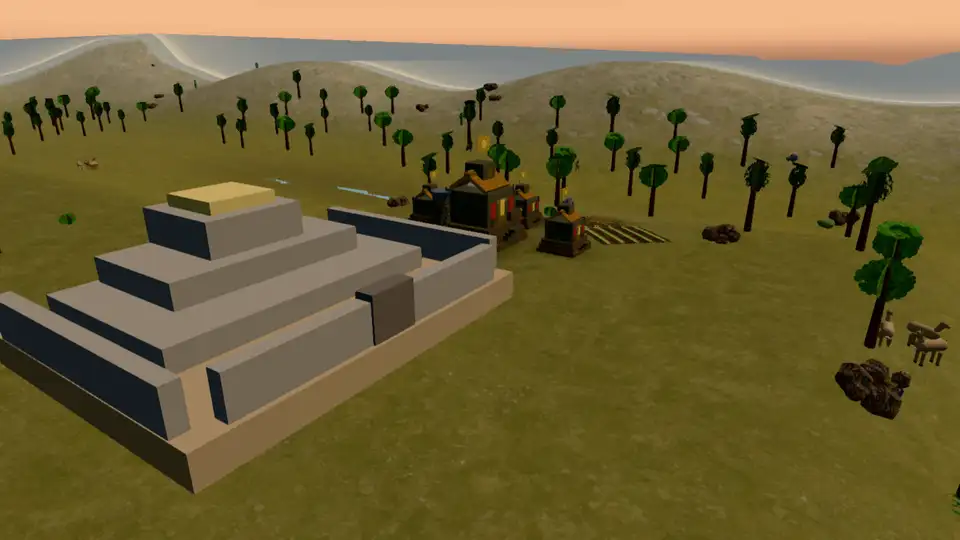
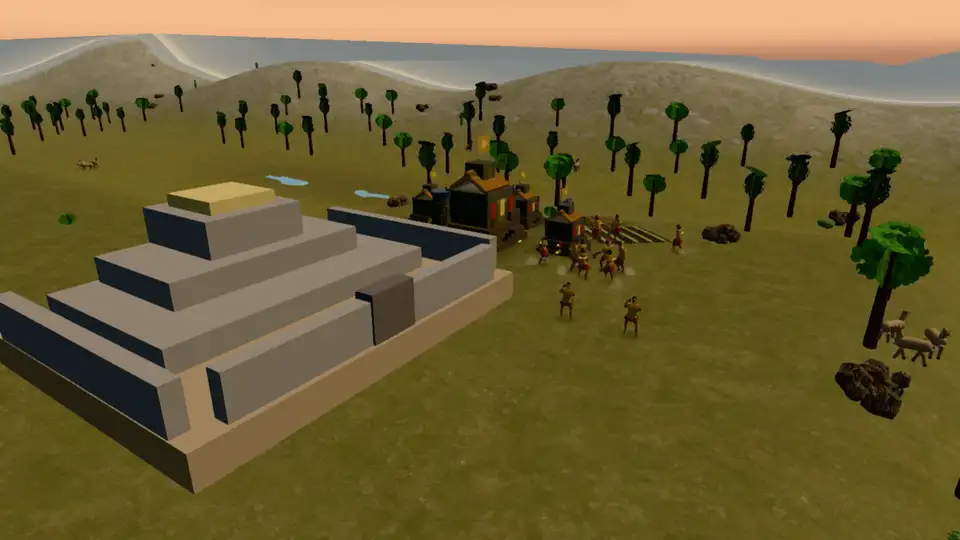
fix(m6b): captura en el centro de Huáscar y revisión de #489
- El Acto III ya no es un segundo hold en la misma marca: la captura se hace en el centro de Huáscar, separada de la pampa, y exige mover la línea.\n- Tutorial con paso de captura y dossier actualizado; ola de refuerzo con offsets 4/3.\n- Nuevo guardado/carga a mitad de la captura; la vara documenta esa cobertura.\n- Captura del acto III con unidades y titular de victoria sin «ruinas del enemigo».\n- Comentario de musketeer/hondero en el bench de m6b.

diff --git a/tests/e2e/save-campaign.spec.ts b/tests/e2e/save-campaign.spec.ts
@@ -777,7 +777,7 @@ test('saves and loads m6 mid-surrender', async ({ page }) => {
     g.update(1 / 60, 0.02);
     document.querySelector<HTMLElement>('.ed-mission-card')?.click();
     const anchor = g.siteAnchor as { x: number; z: number };
-    const army = [...g.units.values()].filter((u: any) => u.owner === 0 && !u.dead).slice(0, 4) as any[];
+    const army = [...g.units.values()].filter((u: any) => u.owner === 0 && !u.dead).slice(0, 8) as any[];
     for (const u of army) u.pos.set(anchor.x, g.terrain.getHeight(anchor.x, anchor.z), anchor.z);
     const dt = 1 / 60;
     let t = 0.1;
@@ -812,6 +812,72 @@ test('saves and loads m6 mid-surrender', async ({ page }) => {
     return {
       surrender: g.mission.getObjectiveProgress('obj_rendicion'),
       canal: g.mission.getObjectiveState('obj_canal'),
+      tutorialStep: g.tutorial?.toSave().stepId ?? null,
+    };
+  });
+  expect(after).toEqual(before);
+});
+
+test('saves and loads m6b mid-capture', async ({ page }) => {
+  await page.goto('/?mission=m6b_guerra_civil&seed=777&fog=0&low=1&intro=0');
+  await startMission(page);
+  await page.waitForFunction(
+    () => {
+      const g = (window as unknown as { game?: any }).game;
+      return !!g?.mission && g.units.size > 0;
+    },
+    null,
+    { timeout: 20_000 },
+  );
+  const before = await page.evaluate(() => {
+    const g = (window as unknown as { game: any }).game;
+    g.loop.stop();
+    if (g.getPaused()) g.togglePause();
+    const m = g.mission;
+    const step = () => {
+      document.querySelector<HTMLElement>('.ed-mission-card')?.click();
+      g.update(1 / 60, 0);
+    };
+    m.objState.set('obj_avanzar', 'completed');
+    step();
+    m.objState.set('obj_quipaipan', 'completed');
+    step();
+    const anchor = m.getObjectiveAnchor('obj_captura') as { x: number; z: number };
+    const army = [...g.units.values()].filter((u: any) => u.owner === 0 && !u.dead).slice(0, 8) as any[];
+    for (const u of army) u.pos.set(anchor.x, g.terrain.getHeight(anchor.x, anchor.z), anchor.z);
+    const dt = 1 / 60;
+    let t = 0.1;
+    for (let i = 0; i < Math.ceil(6 / dt) && !m.ended; i++) {
+      document.querySelector<HTMLElement>('.ed-mission-card')?.click();
+      for (const u of army) u.pos.set(anchor.x, g.terrain.getHeight(anchor.x, anchor.z), anchor.z);
+      g.update(dt, t);
+      t += dt;
+    }
+    g.saveMatch();
+    return {
+      capture: g.mission.getObjectiveProgress('obj_captura'),
+      hold: m.getObjectiveState('obj_quipaipan'),
+      tutorialStep: g.tutorial?.toSave().stepId ?? null,
+    };
+  });
+  expect(before.capture?.current ?? 0).toBeGreaterThan(2);
+  expect(before.hold).toBe('completed');
+
+  await page.goto('/?load=1');
+  await page.waitForFunction(
+    () => {
+      const g = (window as unknown as { game?: any }).game;
+      return !!g?.mission && g.units.size > 0;
+    },
+    null,
+    { timeout: 20_000 },
+  );
+  const after = await page.evaluate(() => {
+    const g = (window as unknown as { game: any }).game;
+    g.loop.stop();
+    return {
+      capture: g.mission.getObjectiveProgress('obj_captura'),
+      hold: g.mission.getObjectiveState('obj_quipaipan'),
       tutorialStep: g.tutorial?.toSave().stepId ?? null,
     };
   });

diff --git a/src/campaign/defs/missions/m6b_guerra_civil.ts b/src/campaign/defs/missions/m6b_guerra_civil.ts
@@ -107,13 +107,14 @@ export const m6bGuerraCivil: MissionDef = {
       unitKind: UnitKind.SOLDIER,
       hidden: true,
       requires: 'obj_avanzar',
-      title: 'Sostén Quipaipan y captura a Huáscar',
+      title: 'Sostén Quipaipan',
     },
     {
       id: 'obj_captura',
       kind: 'hold',
-      pos: { ref: 'site', dx: 0, dz: 0 },
-      radius: cuscoIncaLength(18),
+      // Huáscar's centre, not the pampa marker: the capture is a separate move from the battle line.
+      pos: { ref: 'enemy', dx: 0, dz: 0 },
+      radius: cuscoIncaLength(8),
       time: 20,
       minUnits: 4,
       hidden: true,
@@ -215,7 +216,7 @@ export const m6bGuerraCivil: MissionDef = {
             { kind: UnitKind.SOLDIER, count: 5 },
             { kind: UnitKind.MUSKETEER, count: 2 },
           ],
-          pos: { ref: 'player', dx: 20, dz: 16 },
+          pos: { ref: 'player', dx: cuscoIncaLength(20), dz: cuscoIncaLength(16) },
           radius: cuscoIncaLength(7),
         },
         { type: 'dialogue', text: '¡Refuerzos de Huáscar atacan tu retaguardia!' },

diff --git a/tests/e2e/campaign-playtest.spec.ts b/tests/e2e/campaign-playtest.spec.ts
@@ -369,6 +369,16 @@ test('plays m6b by holding Quipaipan and capturing Huáscar with real orders', a
       t += dt;
     }
     const progress = m.getObjectiveProgress('obj_quipaipan') as { current: number; target: number } | null;
+    // Act III: move from the pampa to Huáscar's centre and hold the capture.
+    if (!m.ended && m.getObjectiveState('obj_captura') === 'activo') {
+      const capture = m.getObjectiveAnchor('obj_captura') as { x: number; z: number };
+      move(army(), capture.x, capture.z);
+      for (let i = 0; i < Math.ceil(45 / dt) && !m.ended; i++) {
+        if (g.hud.isMissionCardOpen()) document.querySelector<HTMLElement>('.ed-mission-card')?.click();
+        g.update(dt, t);
+        t += dt;
+      }
+    }
     return {
       reach,
       quipaipan: m.getObjectiveState('obj_quipaipan') as string,

diff --git a/src/campaign/defs/tutorials.ts b/src/campaign/defs/tutorials.ts
@@ -188,8 +188,13 @@ const TUTORIALS: Record<string, TutorialDef> = {
       },
       {
         id: 'huascar',
-        text: 'Sostén la pampa de Quipaipan durante 90 s con al menos seis guerreros y no dejes caer a Atahualpa; al vencer se narra la captura de Huáscar.',
+        text: 'Sostén la pampa de Quipaipan durante 90 s con al menos seis guerreros y no dejes caer a Atahualpa.',
         check: { type: 'objectiveCompleted', objectiveId: 'obj_quipaipan' },
+      },
+      {
+        id: 'captura',
+        text: 'Avanza al centro de Huáscar y sostén la captura veinte segundos: el centro queda intacto, el objetivo es Huáscar.',
+        check: { type: 'objectiveCompleted', objectiveId: 'obj_captura' },
       },
     ],
   },

diff --git a/tests/campaign.test.ts b/tests/campaign.test.ts
@@ -520,6 +520,10 @@ describe('campaign educational content', () => {
     expect(m6bActTitles[2]).toContain('Huáscar');
     const capture = m6b.objectives.find((o) => o.id === 'obj_captura')!;
     expect(capture.kind).toBe('hold');
+    expect(capture.pos).toEqual({ ref: 'enemy', dx: 0, dz: 0 });
+    expect(capture.radius).toBeCloseTo(10.667, 3);
+    expect(capture.time).toBe(20);
+    expect(capture.minUnits).toBe(4);
     expect(capture.requires).toBe('obj_quipaipan');
     expect(capture.hidden).toBe(true);
   });

diff --git a/src/i18n/es.ts b/src/i18n/es.ts
@@ -98,7 +98,7 @@ export const es = {
 
   'hud.victory.title': 'VICTORIA',
   'hud.victory.defeat': 'DERROTA',
-  'hud.victory.win': 'Tu imperio se alza sobre las ruinas del enemigo.',
+  'hud.victory.win': 'La partida termina con la victoria.',
   'hud.victory.lose': 'Tu civilización ha caído ante el avance enemigo.',
   'hud.victory.epilogue': 'Epílogo.',
   'hud.victory.epilogueHint': 'Puedes ampliar el contexto y las fuentes en el Códice desde el menú.',

diff --git a/docs/design/campaign-quality-bar.md b/docs/design/campaign-quality-bar.md
@@ -214,26 +214,26 @@ Reviewed 2026-11-14 as a model mission. The human art gate is still open.
 
 Reviewed 2026-11-14 as a model mission. The human art gate is still open.
 
-| Gate        | Status               | Evidence                                                                                                                                                                                     |
-| ----------- | -------------------- | -------------------------------------------------------------------------------------------------------------------------------------------------------------------------------------------- |
-| History     | Met                  | `docs/historia/campanas/chimu_inca.md` with its certainty table; the canal is a labelled abstraction.                                                                                        |
-| Identity    | Met                  | Water as power: Paramonga, the Chan Chan gate and the surrender of the desert capital.                                                                                                      |
-| Terrain     | Met                  | 256 m authored coastal heightfield (`chimuHeightmap.ts`) with painted ground: beach, valley, terraces and foothills.                                                                         |
-| Site        | Met (exception)      | No construction phases: Chan Chan is a living capital, not a monument the player builds; recorded in `chimu-model-mission.md`.                                                              |
-| Play        | Met                  | `campaign.spec.ts` covers gate and surrender; `campaign-playtest.spec.ts` advances, closes and holds with real orders; completable and save paths are covered.                               |
-| Contract    | Met                  | Three acts (Paramonga, canal, capitulation) with hidden goals revealed by triggers and chapter cards; optional centre/timer.                                                                |
-| Onboarding  | Met                  | Non-blocking tutorial, briefing, Codex and minimap pips.                                                                                                                                     |
-| Closure     | Met                  | Dusk epilogue capture narrates Minchancaman's transfer and Querrotumi's revolt; optional objectives summarised.                                                                              |
-| UX          | Met                  | `tests/e2e/hud-layout.spec.ts` checks the panels geometrically at 1280×720 (Caral also at 1600×900 and 1920×1080).                                                                           |
-| Visuals     | Met locally          | Authored Chimú GLB, painted coast and in-engine intro/epilogue captures in `public/media/chimu/`.                                                                                            |
-| Persistence | Met                  | Gate, hold timer and tutorial round-trip in the shared save path; v9 m6 saves are rejected (`SAVE_VERSION` 10).                                                                              |
-| Tests       | Met                  | Data, site/proxy collision, tutorial, mission, HUD, real-command playtest and save/load coverage.                                                                                            |
-| Docs        | Met                  | This document, dossier, `chimu-model-mission.md`, experience table, site note, art docs and README aligned.                                                                                  |
-| Structure   | Met                  | Three acts, hidden objectives revealed per act, chapter cards with images and optional goals.                                                                                               |
-| Opening     | Met                  | Three-beat narrated intro, chapter cards and epilogue from `scripts/capture_chimu_intro.mjs`; `MISSION_ART` uses the coast capture.                                                          |
-| Art         | Pending human review | The reused Chimú GLB and its Blender records keep `reviewed: false` (#343); in-engine captures are recorded in PROVENANCE.                                                                   |
-| Performance | Met                  | `bench_scene.mjs`: opening ~499k tris / 273 calls, surrender ~765k / 516; within the recorded first-pass caps (the late view is over the 600k art-direction target).                          |
-| Scale       | Met                  | 256 m map, 128² painted ground and `unitSpeedScale: 0.75` → worker crossing ≈2:22; `tests/campaign-scale.test.ts`.                                                                           |
+| Gate        | Status               | Evidence                                                                                                                                                             |
+| ----------- | -------------------- | -------------------------------------------------------------------------------------------------------------------------------------------------------------------- |
+| History     | Met                  | `docs/historia/campanas/chimu_inca.md` with its certainty table; the canal is a labelled abstraction.                                                                |
+| Identity    | Met                  | Water as power: Paramonga, the Chan Chan gate and the surrender of the desert capital.                                                                               |
+| Terrain     | Met                  | 256 m authored coastal heightfield (`chimuHeightmap.ts`) with painted ground: beach, valley, terraces and foothills.                                                 |
+| Site        | Met (exception)      | No construction phases: Chan Chan is a living capital, not a monument the player builds; recorded in `chimu-model-mission.md`.                                       |
+| Play        | Met                  | `campaign.spec.ts` covers gate and surrender; `campaign-playtest.spec.ts` advances, closes and holds with real orders; completable and save paths are covered.       |
+| Contract    | Met                  | Three acts (Paramonga, canal, capitulation) with hidden goals revealed by triggers and chapter cards; optional centre/timer.                                         |
+| Onboarding  | Met                  | Non-blocking tutorial, briefing, Codex and minimap pips.                                                                                                             |
+| Closure     | Met                  | Dusk epilogue capture narrates Minchancaman's transfer and Querrotumi's revolt; optional objectives summarised.                                                      |
+| UX          | Met                  | `tests/e2e/hud-layout.spec.ts` checks the panels geometrically at 1280×720 (Caral also at 1600×900 and 1920×1080).                                                   |
+| Visuals     | Met locally          | Authored Chimú GLB, painted coast and in-engine intro/epilogue captures in `public/media/chimu/`.                                                                    |
+| Persistence | Met                  | Gate, hold timer and tutorial round-trip in the shared save path; v9 m6 saves are rejected (`SAVE_VERSION` 10).                                                      |
+| Tests       | Met                  | Data, site/proxy collision, tutorial, mission, HUD, real-command playtest and save/load coverage.                                                                    |
+| Docs        | Met                  | This document, dossier, `chimu-model-mission.md`, experience table, site note, art docs and README aligned.                                                          |
+| Structure   | Met                  | Three acts, hidden objectives revealed per act, chapter cards with images and optional goals.                                                                        |
+| Opening     | Met                  | Three-beat narrated intro, chapter cards and epilogue from `scripts/capture_chimu_intro.mjs`; `MISSION_ART` uses the coast capture.                                  |
+| Art         | Pending human review | The reused Chimú GLB and its Blender records keep `reviewed: false` (#343); in-engine captures are recorded in PROVENANCE.                                           |
+| Performance | Met                  | `bench_scene.mjs`: opening ~499k tris / 273 calls, surrender ~765k / 516; within the recorded first-pass caps (the late view is over the 600k art-direction target). |
+| Scale       | Met                  | 256 m map, 128² painted ground and `unitSpeedScale: 0.75` → worker crossing ≈2:22; `tests/campaign-scale.test.ts`.                                                   |
 
 ## Applying it to m2–m9
 
@@ -412,24 +412,23 @@ The table separates what is implemented from the art and performance passes that
 
 Reviewed 2026-11-14 as a model mission. The human art gate is still open.
 
-| Gate        | Status               | Evidence                                                                                                                                                                                     |
-| ----------- | -------------------- | -------------------------------------------------------------------------------------------------------------------------------------------------------------------------------------------- |
-| History     | Met                  | `docs/historia/campanas/guerra_civil_inca.md` with its certainty table; no invented battle or ruler.                                                                                         |
-| Identity    | Met                  | The dynastic war, the Quipaipan hold and Huáscar's capture without razing Cusco.                                                                                                             |
-| Terrain     | Met                  | 256 m authored highland heightfield (`cuscoHeightmap.ts`) with painted ground: pampa, terraces, quebrada and ridges.                                                                         |
-| Site        | Met (exception)      | No construction phases: Cusco is a living capital and Quipaipan a battlefield; recorded in `guerra-civil-model-mission.md`.                                                                 |
-| Play        | Met                  | `campaign-playtest.spec.ts` advances, holds and captures with real orders and keeps the centre standing; completable and save paths are covered.                                            |
-| Contract    | Met                  | Three acts (march, Quipaipan, capture) with hidden goals revealed by triggers and chapter cards.                                                                                            |
-| Onboarding  | Met                  | Non-blocking tutorial, briefing, Codex and minimap pips.                                                                                                                                     |
-| Closure     | Met                  | Dusk epilogue capture narrates Cajamarca and the weakened empire.                                                                                                                            |
-| UX          | Met                  | `tests/e2e/hud-layout.spec.ts` checks the panels geometrically at 1280×720 (Caral also at 1600×900 and 1920×1080).                                                                           |
-| Visuals     | Met locally          | Authored Cusco GLB, painted pampa and in-engine intro/epilogue captures in `public/media/cusco-inca/`.                                                                                       |
-| Persistence | Met                  | Hold, capture and tutorial round-trip in the save path; v10 m6b saves are rejected (`SAVE_VERSION` 11).                                                                                     |
-| Tests       | Met                  | Data, site/proxy collision, tutorial, mission, HUD, real-command playtest and save/load coverage.                                                                                            |
-| Docs        | Met                  | This document, dossier, `guerra-civil-model-mission.md`, experience table, site note, art docs and README aligned.                                                                           |
-| Structure   | Met                  | Three acts, hidden objectives revealed per act and chapter cards with images.                                                                                                               |
-| Opening     | Met                  | Three-beat narrated intro, chapter cards and epilogue from `scripts/capture_cusco_inca_intro.mjs`; `MISSION_ART` uses the Quipaipan capture.                                                 |
-| Art         | Pending human review | The reused Cusco GLB and its Blender records keep `reviewed: false` (#343); in-engine captures are recorded in PROVENANCE.                                                                   |
-| Performance | Met                  | `bench_scene.mjs`: opening ~703k tris / 436 calls, battle ~967k / 673; over the 600k art-direction target (as m7/m9), within the recorded first-pass caps.                                   |
-| Scale       | Met                  | 256 m map, 128² painted ground and `unitSpeedScale: 0.75` → worker crossing ≈2:22; `tests/campaign-scale.test.ts`.                                                                           |
-
+| Gate        | Status               | Evidence                                                                                                                                                   |
+| ----------- | -------------------- | ---------------------------------------------------------------------------------------------------------------------------------------------------------- |
+| History     | Met                  | `docs/historia/campanas/guerra_civil_inca.md` with its certainty table; no invented battle or ruler.                                                       |
+| Identity    | Met                  | The dynastic war, the Quipaipan hold and Huáscar's capture without razing Cusco.                                                                           |
+| Terrain     | Met                  | 256 m authored highland heightfield (`cuscoHeightmap.ts`) with painted ground: pampa, terraces, quebrada and ridges.                                       |
+| Site        | Met (exception)      | No construction phases: Cusco is a living capital and Quipaipan a battlefield; recorded in `guerra-civil-model-mission.md`.                                |
+| Play        | Met                  | `campaign-playtest.spec.ts` advances, holds and captures with real orders and keeps the centre standing; completable and save paths are covered.           |
+| Contract    | Met                  | Three acts (march, Quipaipan, capture) with hidden goals revealed by triggers and chapter cards.                                                           |
+| Onboarding  | Met                  | Non-blocking tutorial, briefing, Codex and minimap pips.                                                                                                   |
+| Closure     | Met                  | Dusk epilogue capture narrates Cajamarca and the weakened empire.                                                                                          |
+| UX          | Met                  | `tests/e2e/hud-layout.spec.ts` checks the panels geometrically at 1280×720 (Caral also at 1600×900 and 1920×1080).                                         |
+| Visuals     | Met locally          | Authored Cusco GLB, painted pampa and in-engine intro/epilogue captures in `public/media/cusco-inca/`.                                                     |
+| Persistence | Met                  | Mid-capture save/load in `save-campaign.spec.ts` (capture progress and tutorial); v10 m6b saves are rejected (`SAVE_VERSION` 11).                          |
+| Tests       | Met                  | Data, site/proxy collision, tutorial, mission, HUD, real-command playtest and save/load coverage.                                                          |
+| Docs        | Met                  | This document, dossier, `guerra-civil-model-mission.md`, experience table, site note, art docs and README aligned.                                         |
+| Structure   | Met                  | Three acts, hidden objectives revealed per act and chapter cards with images.                                                                              |
+| Opening     | Met                  | Three-beat narrated intro, chapter cards and epilogue from `scripts/capture_cusco_inca_intro.mjs`; `MISSION_ART` uses the Quipaipan capture.               |
+| Art         | Pending human review | The reused Cusco GLB and its Blender records keep `reviewed: false` (#343); in-engine captures are recorded in PROVENANCE.                                 |
+| Performance | Met                  | `bench_scene.mjs`: opening ~703k tris / 436 calls, battle ~967k / 673; over the 600k art-direction target (as m7/m9), within the recorded first-pass caps. |
+| Scale       | Met                  | 256 m map, 128² painted ground and `unitSpeedScale: 0.75` → worker crossing ≈2:22; `tests/campaign-scale.test.ts`.                                         |

diff --git a/docs/design/guerra-civil-model-mission.md b/docs/design/guerra-civil-model-mission.md
@@ -15,11 +15,11 @@ hold the pampa, and capture Huáscar without razing Cusco.
 
 ## Acts
 
-| Act                    | Place                | Player action                                                     | Historical idea                                                        |
-| ---------------------- | -------------------- | ------------------------------------------------------------------ | ---------------------------------------------------------------------- |
-| I · La marcha          | Quito–Cusco road     | Advance with Atahualpa and present battle at Quipaipan            | The dynastic war divides the Tahuantinsuyo                             |
-| II · Quipaipan         | Pampa de Quipaipan   | Hold the pampa 90 s with six soldiers                             | The battle breaks Huáscar's army                                       |
-| III · La captura       | Quipaipan            | Hold the field 20 s with four units and capture Huáscar           | The capture ends the war; the Cusco centre is not the goal             |
+| Act              | Place              | Player action                                                 | Historical idea                                             |
+| ---------------- | ------------------ | ------------------------------------------------------------- | ----------------------------------------------------------- |
+| I · La marcha    | Quito–Cusco road   | Advance with Atahualpa and present battle at Quipaipan        | The dynastic war divides the Tahuantinsuyo                  |
+| II · Quipaipan   | Pampa de Quipaipan | Hold the pampa 90 s with six soldiers                         | The battle breaks Huáscar's army                            |
+| III · La captura | Huáscar's centre   | Move from the pampa and hold the capture 20 s with four units | The capture ends the war; the Cusco centre is not destroyed |
 
 The Cusco centre stays standing: the victory is the capture, not the destruction of the city. The epilogue
 narrates Cajamarca and the weakened empire.
@@ -72,8 +72,8 @@ in the briefing, the chapter cards and the Codex.
 
 - Data: `tests/campaign.test.ts`, `tests/campaign-layout.test.ts`, `tests/authored-sites.test.ts`.
 - Scale: `tests/campaign-scale.test.ts` enforces 256 m, 128² painted ground and the crossing band.
-- E2E: `campaign-playtest.spec.ts` (real orders, no cheats), `campaign-completable.spec.ts`,
-  `save-campaign.spec.ts` (later missions) and `hud-layout.spec.ts`.
+- E2E: `campaign-playtest.spec.ts` (real orders to the capture marker, no cheats),
+  `campaign-completable.spec.ts`, `save-campaign.spec.ts` (mid-capture save/load) and `hud-layout.spec.ts`.
 - Bench: `scripts/bench_scene.mjs` measures the opening (~703k tris / 436 calls) and the battle
   (~967k / 673); over the 600k target as m7/m9; `yarn bench:check`.
 - Evidence: `yarn record --mission=m6b_guerra_civil --mode=clip` and the intro/epilogue captures.

diff --git a/docs/historia/campanas/guerra_civil_inca.md b/docs/historia/campanas/guerra_civil_inca.md
@@ -13,17 +13,17 @@
 
 ## Certeza
 
-| Afirmación | Certeza | Base |
-| --- | --- | --- |
-| La guerra civil entre Huáscar y Atahualpa tras la muerte de Huayna Cápac | Documentado | Crónicas y tradición inca |
-| La batalla de Quipaipan (1532) y la derrota del ejército de Huáscar | Documentado | Crónicas |
-| La captura de Huáscar en Quipaipan | Documentado | Crónicas |
-| La captura de Atahualpa en Cajamarca (1532) | Documentado | Crónicas españolas |
-| Las cifras de ejércitos | Tradicional, no verificable | Crónicas |
-| El hold, la captura de 20 s y la pampa | Abstracción jugable | Este dossier y `docs/design/guerra-civil-model-mission.md` |
+| Afirmación                                                               | Certeza                     | Base                                                       |
+| ------------------------------------------------------------------------ | --------------------------- | ---------------------------------------------------------- |
+| La guerra civil entre Huáscar y Atahualpa tras la muerte de Huayna Cápac | Documentado                 | Crónicas y tradición inca                                  |
+| La batalla de Quipaipan (1532) y la derrota del ejército de Huáscar      | Documentado                 | Crónicas                                                   |
+| La captura de Huáscar en Quipaipan                                       | Documentado                 | Crónicas                                                   |
+| La captura de Atahualpa en Cajamarca (1532)                              | Documentado                 | Crónicas españolas                                         |
+| Las cifras de ejércitos                                                  | Tradicional, no verificable | Crónicas                                                   |
+| El hold, la captura de 20 s y la pampa                                   | Abstracción jugable         | Este dossier y `docs/design/guerra-civil-model-mission.md` |
 
 ## Fuentes
 
 - Wikipedia: [Guerra civil incaica](https://es.wikipedia.org/wiki/Guerra_civil_incaica), [Atahualpa](https://es.wikipedia.org/wiki/Atahualpa), [Huáscar](https://es.wikipedia.org/wiki/Hu%C3%A1scar).
-- Betanzos, J. (1551). *Suma y narración de los incas*.
-- Cieza de León, P. *Crónica del Perú*.
+- Betanzos, J. (1551). _Suma y narración de los incas_.
+- Cieza de León, P. _Crónica del Perú_.
